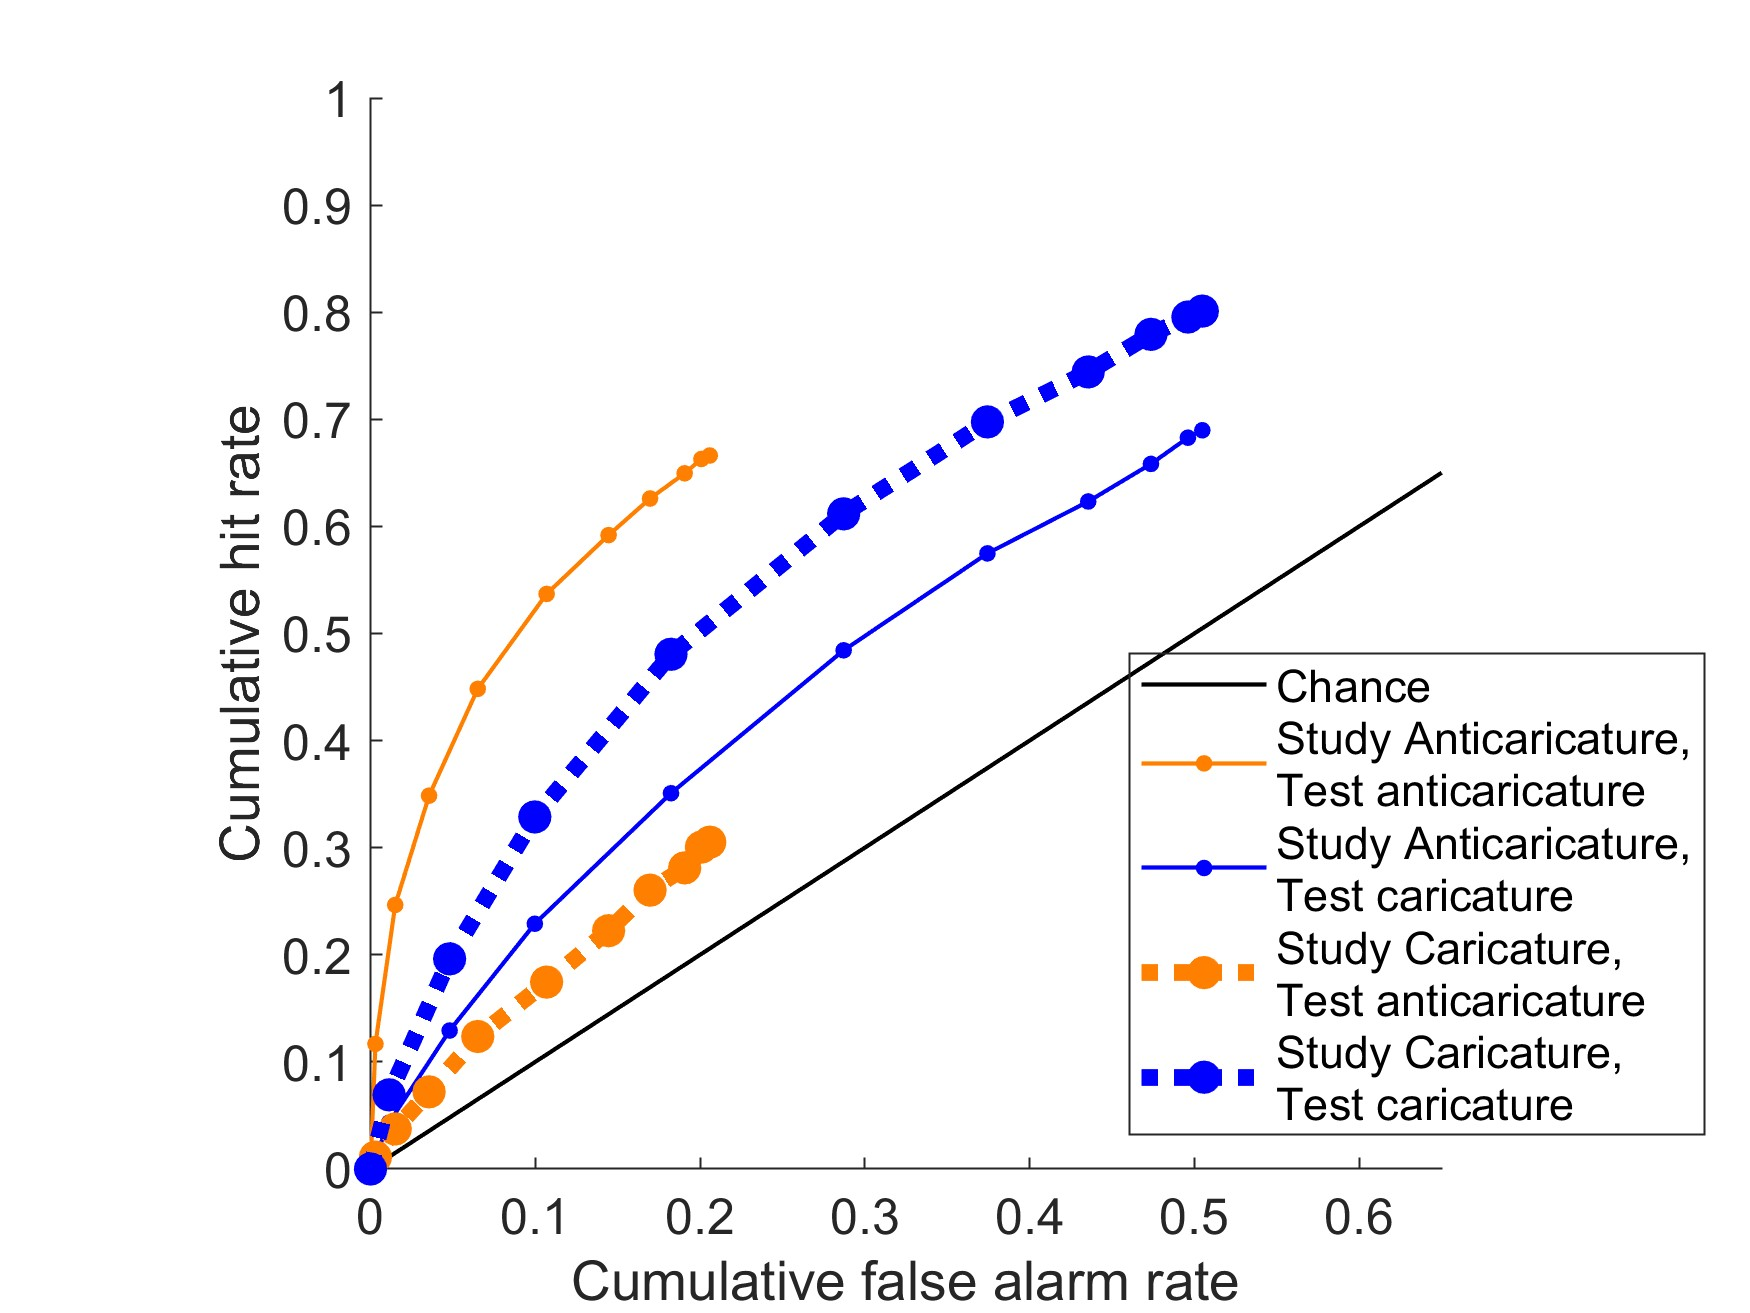
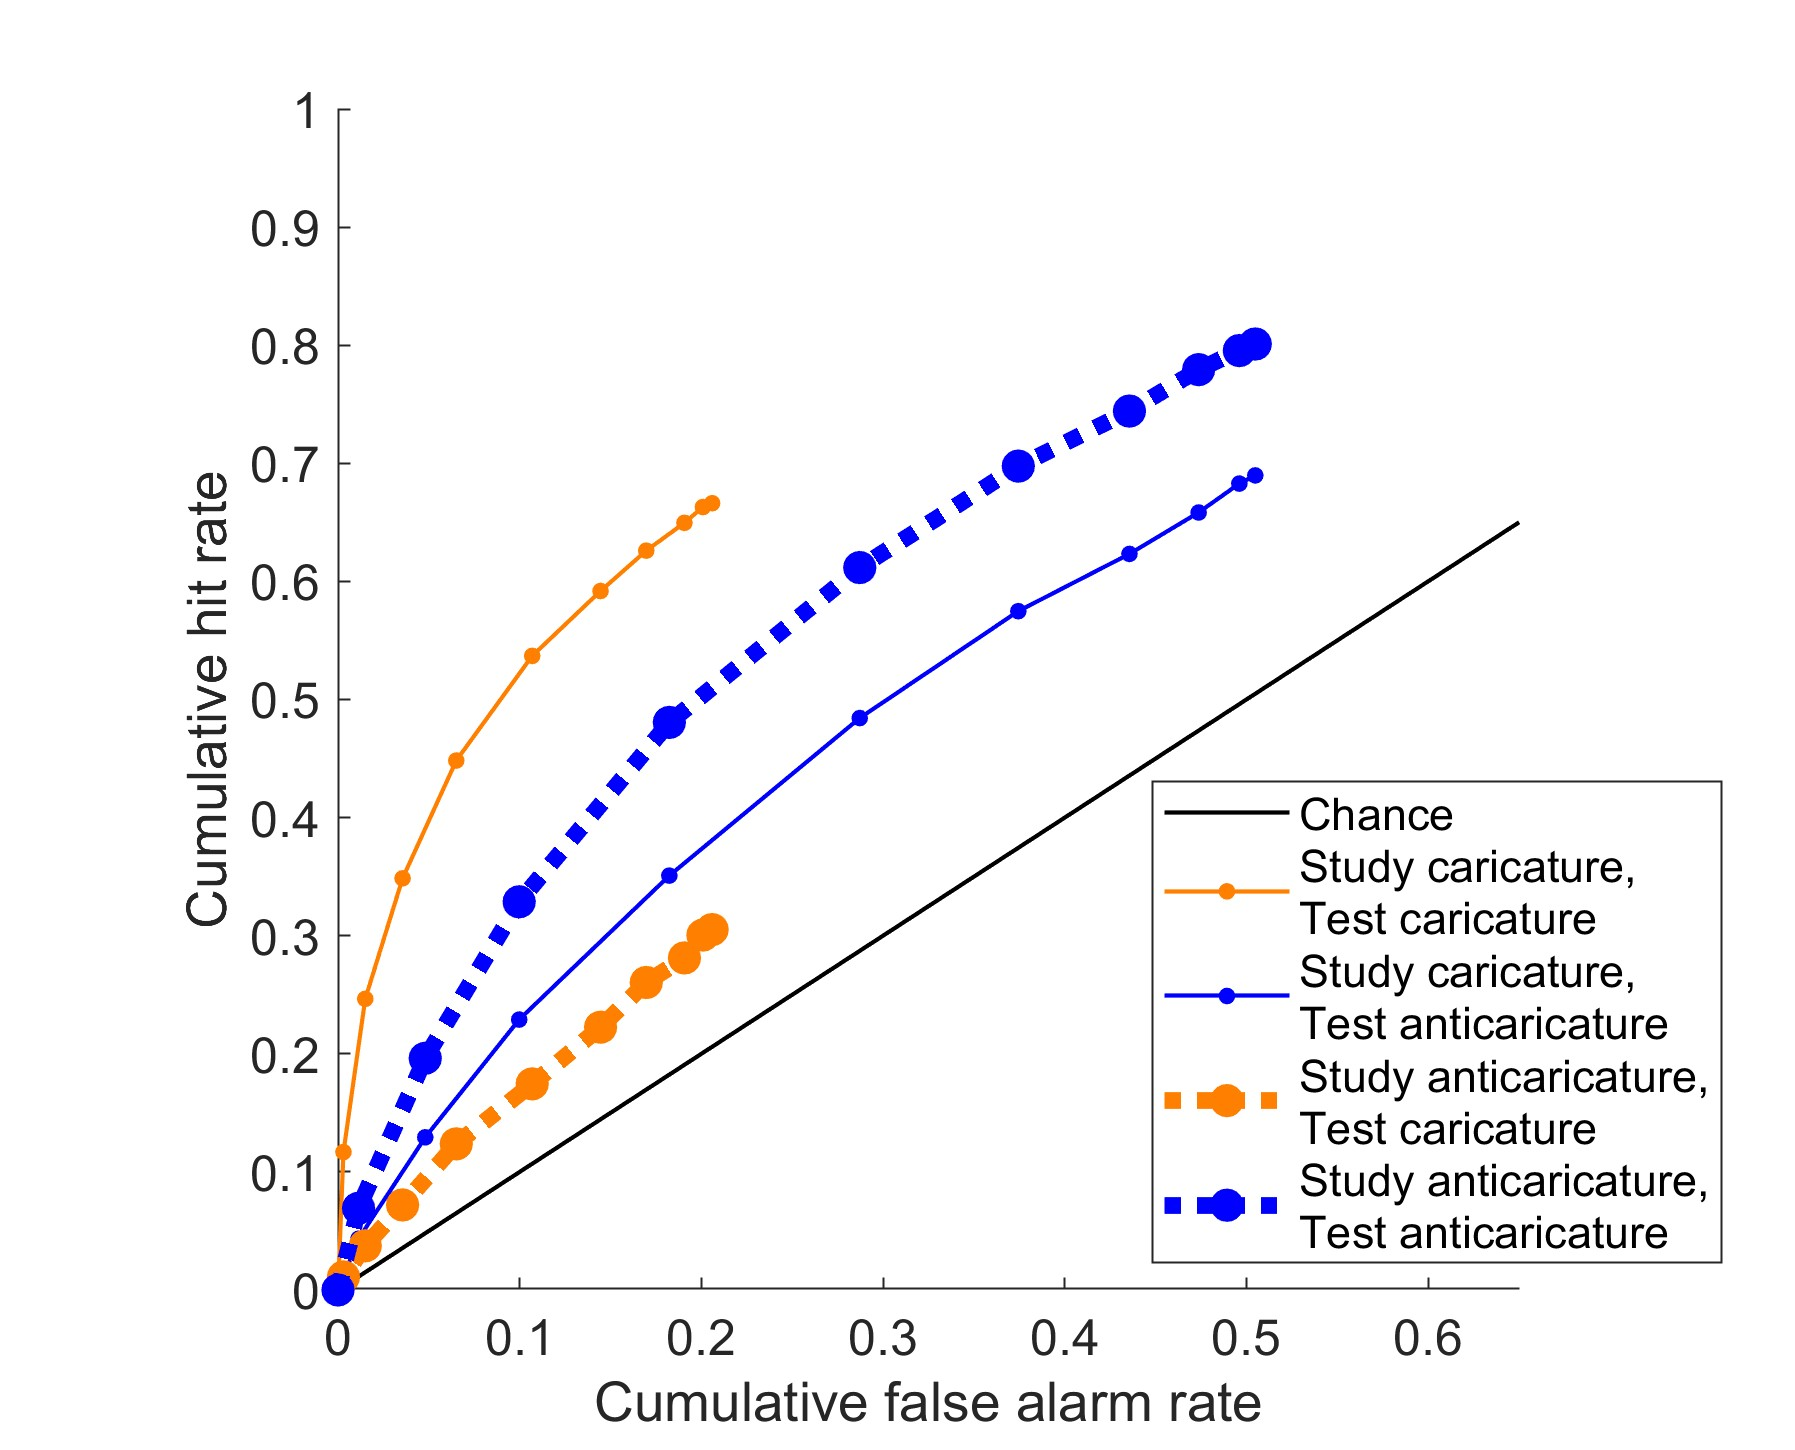
corrected child ROC legend (human study)

diff --git a/child_behaviour/child_caricatures_nf_v7.m b/child_behaviour/child_caricatures_nf_v7.m
@@ -492,9 +492,9 @@ for group = 2;    %either expert groups or CFMT+ groups, depends on group_settin
         
         %now repeat average, but separately for only car levels this time
         %when you grab confidence interval, though, it is guaranteed to be over subjects, which you need
-        [hits_car_s(:,i) hits_car_ci_temp_s] = grpstats( hits_ss_temp_s(:,i), ...
+        [hits_car_s(:,i) hits_car_ci_temp_s test_hits_gnames] = grpstats( hits_ss_temp_s(:,i), ...
             [ hits_grps_temp_s ], ...
-            {'mean' 'meanci'});
+            {'mean' 'meanci' 'gname'});
         %     hits_car_ci_s(:,i) = hits_car_s(:,i) - hits_car_ci_temp_s(:,1);
         
         %false alarms
@@ -511,9 +511,9 @@ for group = 2;    %either expert groups or CFMT+ groups, depends on group_settin
         
         %now repeat average, but separately for only car levels this time
         %when you grab confidence interval, though, it is guaranteed to be over subjects, which you need
-        [fas_car(:,i) fas_car_ci_temp] = grpstats( fas_ss_temp(:,i), ...
+        [fas_car(:,i) fas_car_ci_temp test_fas_gnames] = grpstats( fas_ss_temp(:,i), ...
             [ fas_grps_temp ], ...
-            {'mean' 'meanci'});
+            {'mean' 'meanci' 'gname'});
         %     fas_car_ci(:,i) = fas_car(:,i) - fas_car_ci_temp(:,1);
         
     end;   %loop through confidence levels
@@ -537,10 +537,10 @@ for group = 2;    %either expert groups or CFMT+ groups, depends on group_settin
     xlabel('Cumulative false alarm rate');
     box off;
     %(0=car-car, 1=car-anticar, 2=anticar,car, 3=anticar-anticar)
-    plot(fas_car(1,:)', hits_car_s(1,:)','Marker','o','MarkerFaceColor',plot_cmap(2,:),'MarkerEdgeColor',plot_cmap(2,:),'Color',plot_cmap(2,:),'LineStyle','-','LineWidth',1,'MarkerSize',3,'DisplayName', sprintf('Study Anticaricature,\nTest anticaricature'));
-    plot(fas_car(2,:)', hits_car_s(2,:)','Marker','o','MarkerFaceColor',plot_cmap(1,:),'MarkerEdgeColor',plot_cmap(1,:),'Color',plot_cmap(1,:),'LineStyle','-','LineWidth',1,'MarkerSize',3,'DisplayName', sprintf('Study Anticaricature,\nTest caricature'));
-    plot(fas_car(1,:)', hits_car_s(3,:)','Marker','o','MarkerFaceColor',plot_cmap(2,:),'MarkerEdgeColor',plot_cmap(2,:),'Color',plot_cmap(2,:),'LineStyle',':','LineWidth',4,'MarkerSize',4,'DisplayName', sprintf('Study Caricature,\nTest anticaricature'));
-    plot(fas_car(2,:)', hits_car_s(4,:)','Marker','o','MarkerFaceColor',plot_cmap(1,:),'MarkerEdgeColor',plot_cmap(1,:),'Color',plot_cmap(1,:),'LineStyle',':','LineWidth',4,'MarkerSize',4,'DisplayName', sprintf('Study Caricature,\nTest caricature'));
+    plot(fas_car(1,:)', hits_car_s(1,:)','Marker','o','MarkerFaceColor',plot_cmap(2,:),'MarkerEdgeColor',plot_cmap(2,:),'Color',plot_cmap(2,:),'LineStyle','-','LineWidth',1,'MarkerSize',3,'DisplayName', sprintf('Study caricature,\nTest caricature'));
+    plot(fas_car(2,:)', hits_car_s(2,:)','Marker','o','MarkerFaceColor',plot_cmap(1,:),'MarkerEdgeColor',plot_cmap(1,:),'Color',plot_cmap(1,:),'LineStyle','-','LineWidth',1,'MarkerSize',3,'DisplayName', sprintf('Study caricature,\nTest anticaricature'));
+    plot(fas_car(1,:)', hits_car_s(3,:)','Marker','o','MarkerFaceColor',plot_cmap(2,:),'MarkerEdgeColor',plot_cmap(2,:),'Color',plot_cmap(2,:),'LineStyle',':','LineWidth',4,'MarkerSize',4,'DisplayName', sprintf('Study anticaricature,\nTest caricature'));
+    plot(fas_car(2,:)', hits_car_s(4,:)','Marker','o','MarkerFaceColor',plot_cmap(1,:),'MarkerEdgeColor',plot_cmap(1,:),'Color',plot_cmap(1,:),'LineStyle',':','LineWidth',4,'MarkerSize',4,'DisplayName', sprintf('Study anticaricature,\nTest anticaricature'));
 
 %     plot(fas_car(1,:)', hits_car_s(1,:)','Marker','o','MarkerFaceColor',plot_cmap(2,:),'MarkerEdgeColor',plot_cmap(2,:),'Color',plot_cmap(2,:),'LineStyle','-','LineWidth',1,'MarkerSize',3,'DisplayName', 'Study Anticaricature, Test anticaricature');
 %     plot(fas_car(2,:)', hits_car_s(2,:)','Marker','o','MarkerFaceColor',plot_cmap(1,:),'MarkerEdgeColor',plot_cmap(1,:),'Color',plot_cmap(1,:),'LineStyle','-','LineWidth',1,'MarkerSize',3,'DisplayName','Study Anticaricature, Test caricature');

diff --git a/child_oldnew_vggFace.py b/child_oldnew_vggFace.py
@@ -237,18 +237,18 @@ def get_model_space(face_descriptions):
 
 
     # #########Set up vgg16 model
-    # from keras.applications import vgg16
-    # from keras.models import Model
-    # model = vgg16.VGG16(weights='imagenet', include_top=True)
-    # model2 = Model(model.input, model.layers[-2].output)
-    # from keras.applications.vgg16 import preprocess_input    
+    from keras.applications import vgg16
+    from keras.models import Model
+    model = vgg16.VGG16(weights='imagenet', include_top=True)
+    model2 = Model(model.input, model.layers[-2].output)
+    from keras.applications.vgg16 import preprocess_input    
     
     #########Set up vggFACE model
-    from keras_vggface.vggface import VGGFace
-    model2 = VGGFace(include_top=False, input_shape=(224, 224, 3), pooling='avg')
-    # model2 = VGGFace(model='resnet50', include_top=False, input_shape=(224, 224, 3), pooling='avg')
-    # model2 = VGGFace(model='senet50', include_top=False, input_shape=(224, 224, 3), pooling='avg')
-    from keras_vggface.utils import preprocess_input
+    # from keras_vggface.vggface import VGGFace
+    # model2 = VGGFace(include_top=False, input_shape=(224, 224, 3), pooling='avg')
+    # # model2 = VGGFace(model='resnet50', include_top=False, input_shape=(224, 224, 3), pooling='avg')
+    # # model2 = VGGFace(model='senet50', include_top=False, input_shape=(224, 224, 3), pooling='avg')
+    # from keras_vggface.utils import preprocess_input
     
     
     #########Proprocess images and project them 
